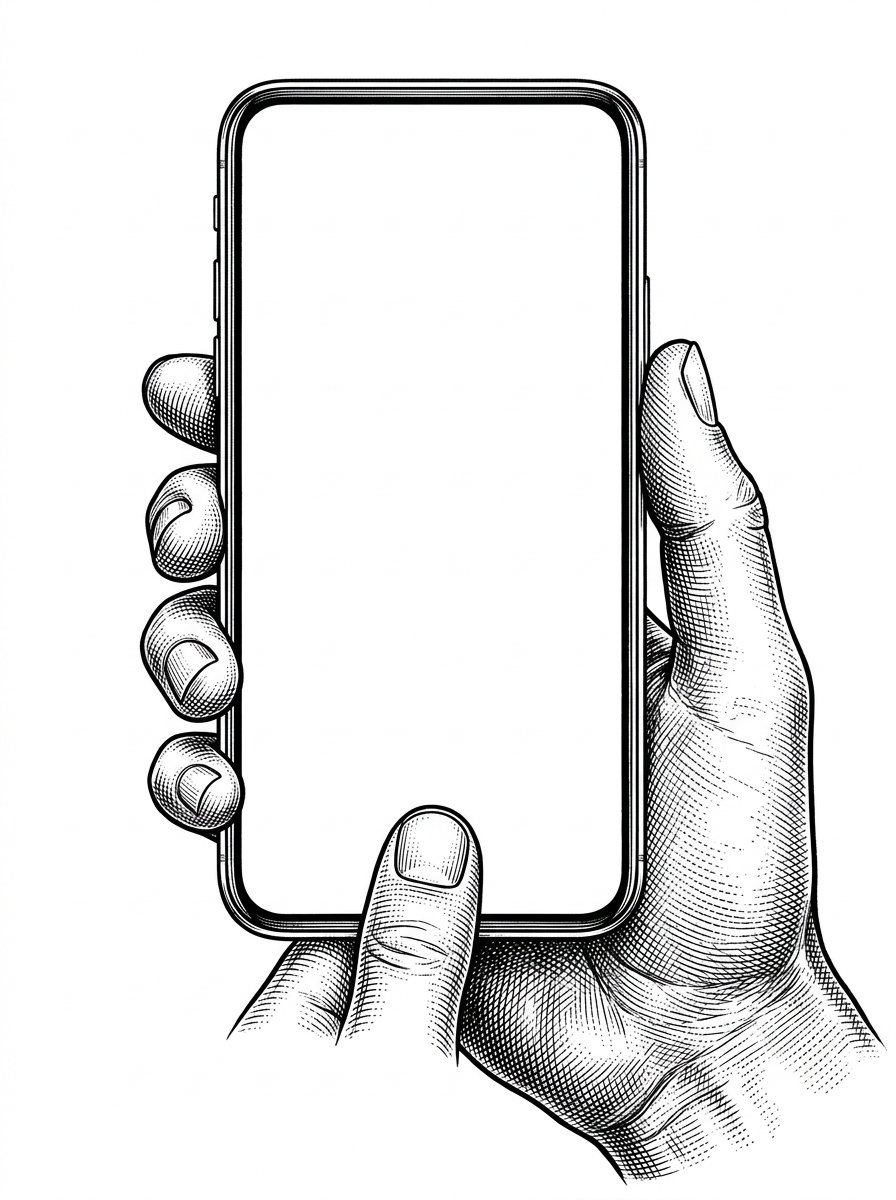
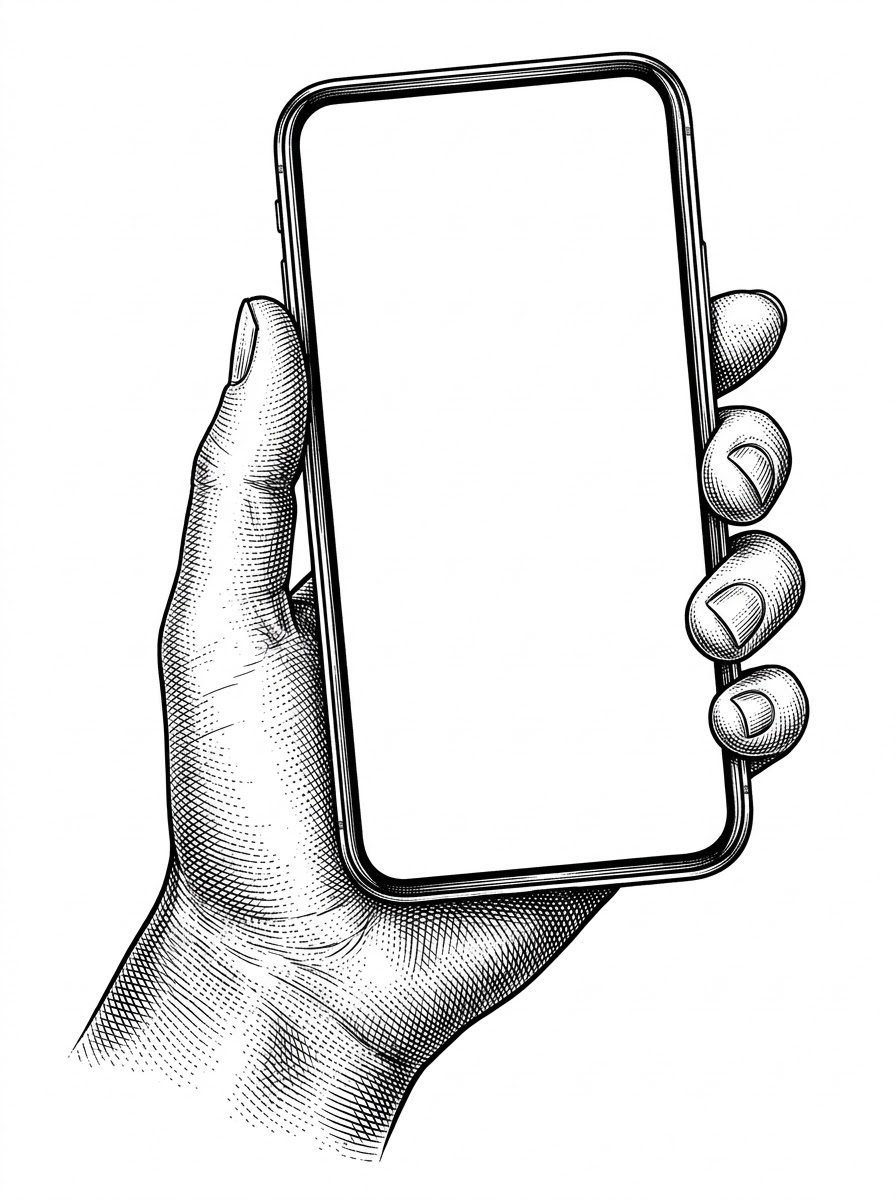
#013 hp_checkout v2 + #016 petugas_berkas v2 (dibuat user di Flow): cacat anatomi & kemiripan wajah tokoh publik diperbaiki
Claude-Session: https://claude.ai/code/session_01BfnoLVZri9uAPP3UdHeCe6

Changed region(s): [[0.0938, 0.0308, 0.9688, 0.9867], [0.4688, 0.6475, 0.5, 0.6783]]

diff --git a/stories/zonasi/README.md b/stories/zonasi/README.md
@@ -93,5 +93,5 @@ Penutup: 3 Dilema Abu-Abu: cucu yang diasuh nenek vs alamat pinjaman, identik di
 - **VO 18 Nov 2026:** `audio/raw_take1.mp3` (konektor ElevenLabs, Saos Cocol, eleven_v4, 1 take, 774 kredit, flow vsGKbn6D8HzeHFPGqz2u) → `vo_tighten.py --hold 61:0.6` → `audio/vo_zonasi.mp3`: akhir kata 39,1 dtk, 2,66 kata/dtk, atempo 1,081, jeda pengungkapan 0,6 dtk (disisipkan). H1 selesai 3,16 dtk (≤ 4,0 ✓), suara mulai 0,00. `vo_words.json` = align_vo pada file final. QA Whisper: tidak ada kata bermasalah ("nentuin" small "nantuin", medium benar).
 - **Catatan visual dari user (18 Nov 2026):** VO kalimat 1 berbunyi "…bisa nentuin kursi sekolah." tanpa kata "anak" (sudah terekam). **Visual wajib menampilkan anak**: Frame 0 dan ketukan 1 memuat kursi/bangku sekolah kecil dengan tas anak + sosok anak berseragam SD dari belakang (aman filter Flow: tampak belakang/siluet, tanpa wajah close-up); teks layar Frame 0 menyebut **KURSI SEKOLAH ANAK**.
 - **Gambar (fase 3, 18 Nov 2026):** `kolase/flow_prompts.md` (generator `research/batch_013_016/flow_prompts_gen.py`; instruksi sesi lokal flow-mcp `research/batch_013_016/flow_local_session_instructions.txt`). Hasil → folder Drive episode → `kolase/ai/<label>.jpg`. START shot awal dari `line_starts.py` sudah tercatat di `kolase/episode.json` (dur).
-- **Gambar AI masuk (18 Nov 2026, sesi cloud):** 11/11 di `kolase/ai/`. Tiga file 1:1 dari `_belum_dinamai` dicocokkan visual: scene-01 = kursi_sekolah (meja+kursi kayu, ransel anak tergantung), scene-02 = kardus_pindahan, scene-03 = tangan_tulis (Drive sudah diganti nama + dipindah). **Visual "anak" tersedia:** `kursi_sekolah` (ransel anak), `anak_seragam` (anak SD kemeja putih + celana pendek, tampak belakang, berjalan ke gerbang), `nenek_cucu` (nenek berkain batik menggandeng cucu berseragam + ransel, tampak belakang). QA: `petugas_berkas` **wajahnya mirip tokoh publik nasional** (risiko salah tafsir di episode soal manipulasi dokumen) → ulang sebagai `petugas_berkas_v2` tampak belakang (`research/batch_013_016/flow_ulang_lokal.txt`); fallback: crop tangan + kaca pembesar + berkas tanpa wajah. `gedung_sekolah` ada coretan huruf palsu kecil di rumput kiri bawah → crop.
+- **Gambar AI masuk (18 Nov 2026, sesi cloud):** 11/11 di `kolase/ai/`. Tiga file 1:1 dari `_belum_dinamai` dicocokkan visual: scene-01 = kursi_sekolah (meja+kursi kayu, ransel anak tergantung), scene-02 = kardus_pindahan, scene-03 = tangan_tulis (Drive sudah diganti nama + dipindah). **Visual "anak" tersedia:** `kursi_sekolah` (ransel anak), `anak_seragam` (anak SD kemeja putih + celana pendek, tampak belakang, berjalan ke gerbang), `nenek_cucu` (nenek berkain batik menggandeng cucu berseragam + ransel, tampak belakang). QA: `petugas_berkas` **wajahnya mirip tokoh publik nasional** (risiko salah tafsir di episode soal manipulasi dokumen) → **diganti v2** (dibuat user manual di Flow, dikirim lewat chat 18 Nov 2026): tampak belakang dari bahu, wajah tidak terlihat ✓; rasio jadi 3:4 (bukan 4:3), komposisi di bake menyesuaikan. File `kolase/ai/petugas_berkas.jpg` = v2 (v1 di riwayat git b15cd80). `gedung_sekolah` ada coretan huruf palsu kecil di rumput kiri bawah → crop.
 - **Lanjut setelah /compact:** fase 4 storyboard; Frame 0 = KK (kode) + kursi_sekolah + anak_seragam + teks KURSI SEKOLAH ANAK. Aturan #82: tanpa pita sumber di layar.

diff --git a/stories/biayalayanan/README.md b/stories/biayalayanan/README.md
@@ -96,5 +96,5 @@ Penutup: 5 Pemicu Dunia Nyata (layar checkout yang ditemui penonton) dengan Curt
 - Langkah berikut setelah user setuju: VO manual (2 take) → `vo_words.json` → cek H1 ≤ 4,0 dtk → storyboard/kolase → UPLOAD.md.
 - **VO 18 Nov 2026:** `audio/raw_take1.mp3` (konektor ElevenLabs, Saos Cocol, eleven_v4, 1 take, 928 kredit, flow vsGKbn6D8HzeHFPGqz2u) → `vo_tighten.py --hold 78:0.6` → `audio/vo_biayalayanan.mp3`: akhir kata 48,0 dtk, 2,61 kata/dtk, atempo 1,062, jeda pengungkapan 0,6 dtk (disisipkan). H1 selesai 3,36 dtk (≤ 4,0 ✓), suara mulai 0,00. `vo_words.json` = align_vo pada file final. QA Whisper: "ngunci" diucap lunak: Whisper small/medium mendengar "munci", large-v3 dengan konteks ±1,8 dtk mendengar "Ngunci" → lulus, minta dengar user.
 - **Gambar (fase 3, 18 Nov 2026):** `kolase/flow_prompts.md` (generator `research/batch_013_016/flow_prompts_gen.py`; instruksi sesi lokal flow-mcp `research/batch_013_016/flow_local_session_instructions.txt`). Hasil → folder Drive episode → `kolase/ai/<label>.jpg`. START shot awal dari `line_starts.py` sudah tercatat di `kolase/episode.json` (dur).
-- **Gambar AI masuk (18 Nov 2026, sesi cloud):** 10/10 di `kolase/ai/` (3:4 896×1200, 1:1 1024², 4:3 1200×896). Tiga file 4:3 dari `_belum_dinamai` dicocokkan visual: scene-01 = peneliti_laptop, scene-02 = kerumunan_hp, scene-03 = stadion_kursi (Drive sudah diganti nama + dipindah ke folder episode). QA: `hp_checkout` (HERO Frame 0) **cacat anatomi**: tampak 6 jari (4 ujung jari kiri + jempol kanan + jempol kedua di bawah layar) → ulang sebagai `hp_checkout_v2` (`research/batch_013_016/flow_ulang_lokal.txt`); sementara storyboard memakai versi lama. `stadion_kursi` = gedung teater bertingkat (bukan stadion); ada huruf palsu kecil di papan balkon (±370,390) → tutup/blur di bake. Lainnya bersih (tanpa teks, latar putih).
+- **Gambar AI masuk (18 Nov 2026, sesi cloud):** 10/10 di `kolase/ai/` (3:4 896×1200, 1:1 1024², 4:3 1200×896). Tiga file 4:3 dari `_belum_dinamai` dicocokkan visual: scene-01 = peneliti_laptop, scene-02 = kerumunan_hp, scene-03 = stadion_kursi (Drive sudah diganti nama + dipindah ke folder episode). QA: `hp_checkout` (HERO Frame 0) cacat anatomi di versi 1 (6 jari) → **diganti v2** (dibuat user manual di Flow, dikirim lewat chat 18 Nov 2026): jempol kiri + 4 ujung jari kanan, layar kosong ✓. File `kolase/ai/hp_checkout.jpg` = v2 (v1 ada di riwayat git b15cd80). `stadion_kursi` = gedung teater bertingkat (bukan stadion); ada huruf palsu kecil di papan balkon (±370,390) → tutup/blur di bake. Lainnya bersih (tanpa teks, latar putih).
 - **Lanjut setelah /compact:** fase 4 storyboard (bake.py, prints.json, film.js, storyboard.json, halaman Artifact berkomentar). Aturan #82: tanpa pita sumber di layar; frame 1 subjek + 2–4 pendukung.
